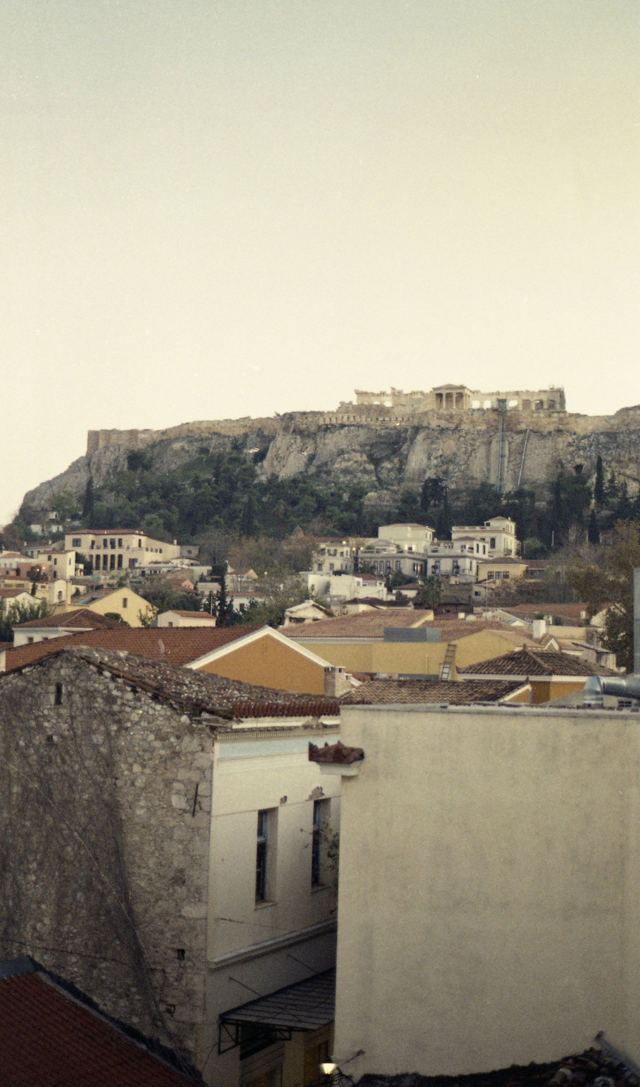
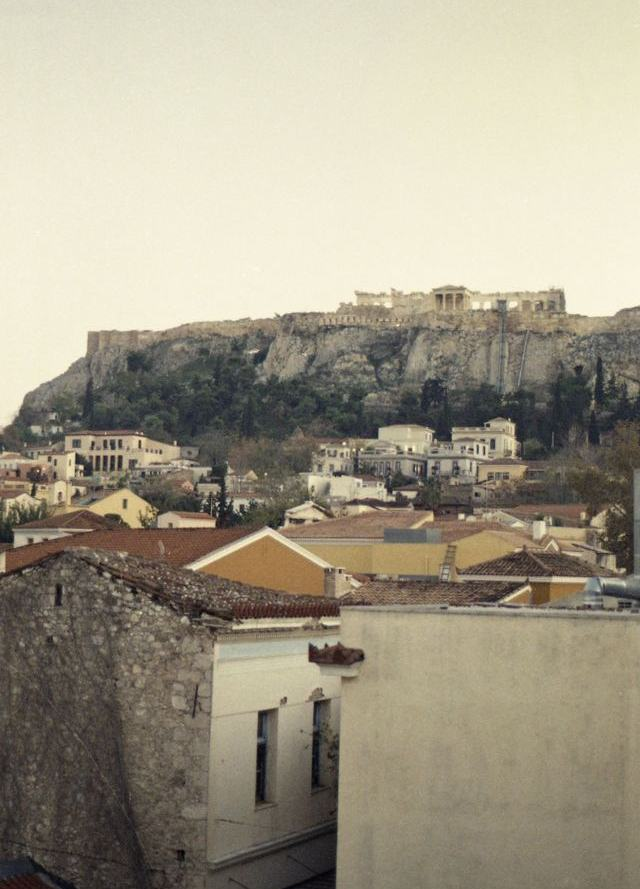
Görseller: takım/Noel sayfası başlıklarına srcset (telefonda 640 px), dikey küçük görseller gösterilen orana kırpılıp yeniden sıkıştırıldı
Claude-Session: https://claude.ai/code/session_017XwPavgqTCjUZUjWv2MXUk

diff --git a/sehir/noel/index.html b/sehir/noel/index.html
@@ -258,7 +258,7 @@ footer a { display: inline-flex; align-items: center; min-height: 44px; margin-r
   
   <section id="nurnberg" class="mac">
     <div class="banner">
-      <img src="/img/sehir/nurnberg-noel.jpg" alt="Nürnberg eski şehir ve St. Sebald kilisesi" loading="eager" decoding="async">
+      <img src="/img/sehir/nurnberg-noel.jpg" srcset="/img/sehir/nurnberg-noel-640.jpg 640w, /img/sehir/nurnberg-noel.jpg 1600w" sizes="(max-width: 760px) 100vw, 760px" alt="Nürnberg eski şehir ve St. Sebald kilisesi" loading="eager" decoding="async">
       <div class="bn">
         <span class="eb">4–6 ARALIK · NÜRNBERG · 72 SAAT</span>
         <h2>Nürnberg: Christkindlesmarkt</h2>
@@ -313,7 +313,7 @@ footer a { display: inline-flex; align-items: center; min-height: 44px; margin-r
   </section>
   <section id="dresden" class="mac">
     <div class="banner">
-      <img src="/img/sehir/dresden-noel.jpg" alt="Dresden eski şehir, Frauenkirche&#39;ye uzanan sokak" loading="lazy" decoding="async">
+      <img src="/img/sehir/dresden-noel.jpg" srcset="/img/sehir/dresden-noel-640.jpg 640w, /img/sehir/dresden-noel.jpg 1600w" sizes="(max-width: 760px) 100vw, 760px" alt="Dresden eski şehir, Frauenkirche&#39;ye uzanan sokak" loading="lazy" decoding="async">
       <div class="bn">
         <span class="eb">4–6 ARALIK · DRESDEN · 72 SAAT</span>
         <h2>Dresden: Striezelmarkt</h2>
@@ -368,7 +368,7 @@ footer a { display: inline-flex; align-items: center; min-height: 44px; margin-r
   </section>
   <section id="salzburg" class="mac">
     <div class="banner">
-      <img src="/img/sehir/salzburg-noel.jpg" alt="Salzburg, Hohensalzburg Kalesi ve eski şehir" loading="lazy" decoding="async">
+      <img src="/img/sehir/salzburg-noel.jpg" srcset="/img/sehir/salzburg-noel-640.jpg 640w, /img/sehir/salzburg-noel.jpg 1600w" sizes="(max-width: 760px) 100vw, 760px" alt="Salzburg, Hohensalzburg Kalesi ve eski şehir" loading="lazy" decoding="async">
       <div class="bn">
         <span class="eb">4–6 ARALIK · SALZBURG · 72 SAAT</span>
         <h2>Salzburg: Christkindlmarkt</h2>
@@ -423,7 +423,7 @@ footer a { display: inline-flex; align-items: center; min-height: 44px; margin-r
   </section>
   <section id="gdansk" class="mac">
     <div class="banner">
-      <img src="/img/sehir/gdansk-noel.jpg" alt="Gdańsk eski şehir ve St. Mary Kilisesi, kuşbakışı" loading="lazy" decoding="async">
+      <img src="/img/sehir/gdansk-noel.jpg" srcset="/img/sehir/gdansk-noel-640.jpg 640w, /img/sehir/gdansk-noel.jpg 1600w" sizes="(max-width: 760px) 100vw, 760px" alt="Gdańsk eski şehir ve St. Mary Kilisesi, kuşbakışı" loading="lazy" decoding="async">
       <div class="bn">
         <span class="eb">4–6 ARALIK · GDAŃSK · 72 SAAT</span>
         <h2>Gdańsk: Noel pazarı</h2>
@@ -474,7 +474,7 @@ footer a { display: inline-flex; align-items: center; min-height: 44px; margin-r
   </section>
   <section id="munih" class="mac">
     <div class="banner">
-      <img src="/img/sehir/munih-noel.jpg" alt="Münih, Marienplatz&#39;taki Noel pazarı, gece" loading="lazy" decoding="async">
+      <img src="/img/sehir/munih-noel.jpg" srcset="/img/sehir/munih-noel-640.jpg 640w, /img/sehir/munih-noel.jpg 1600w" sizes="(max-width: 760px) 100vw, 760px" alt="Münih, Marienplatz&#39;taki Noel pazarı, gece" loading="lazy" decoding="async">
       <div class="bn">
         <span class="eb">18–20 ARALIK · MÜNİH · 72 SAAT</span>
         <h2>Münih: Christkindlmarkt</h2>
@@ -529,7 +529,7 @@ footer a { display: inline-flex; align-items: center; min-height: 44px; margin-r
   </section>
   <section id="strazburg" class="mac">
     <div class="banner">
-      <img src="/img/sehir/strazburg-noel.jpg" alt="Strazburg Katedrali ve eski şehir, gün batımı" loading="lazy" decoding="async">
+      <img src="/img/sehir/strazburg-noel.jpg" srcset="/img/sehir/strazburg-noel-640.jpg 640w, /img/sehir/strazburg-noel.jpg 1600w" sizes="(max-width: 760px) 100vw, 760px" alt="Strazburg Katedrali ve eski şehir, gün batımı" loading="lazy" decoding="async">
       <div class="bn">
         <span class="eb">18–20 ARALIK · STRAZBURG · 72 SAAT</span>
         <h2>Strazburg: Christkindelsmärik</h2>
@@ -584,7 +584,7 @@ footer a { display: inline-flex; align-items: center; min-height: 44px; margin-r
   </section>
   <section id="krakov" class="mac">
     <div class="banner">
-      <img src="/img/sehir/krakov-noel.jpg" alt="Krakov Ana Meydan ve Kumaş Hali, gün batımı" loading="lazy" decoding="async">
+      <img src="/img/sehir/krakov-noel.jpg" srcset="/img/sehir/krakov-noel-640.jpg 640w, /img/sehir/krakov-noel.jpg 1600w" sizes="(max-width: 760px) 100vw, 760px" alt="Krakov Ana Meydan ve Kumaş Hali, gün batımı" loading="lazy" decoding="async">
       <div class="bn">
         <span class="eb">25–27 ARALIK · KRAKOV · 72 SAAT</span>
         <h2>Krakov: Noel pazarı</h2>
@@ -639,7 +639,7 @@ footer a { display: inline-flex; align-items: center; min-height: 44px; margin-r
   </section>
   <section id="brugge" class="mac">
     <div class="banner">
-      <img src="/img/sehir/brugge-noel.jpg" alt="Brugge&#39;de kanal ve tuğla evler" loading="lazy" decoding="async">
+      <img src="/img/sehir/brugge-noel.jpg" srcset="/img/sehir/brugge-noel-640.jpg 640w, /img/sehir/brugge-noel.jpg 1600w" sizes="(max-width: 760px) 100vw, 760px" alt="Brugge&#39;de kanal ve tuğla evler" loading="lazy" decoding="async">
       <div class="bn">
         <span class="eb">25–27 ARALIK · BRUGGE · 72 SAAT</span>
         <h2>Brugge: Winter Glow</h2>

diff --git a/sehir/fenerbahce/index.html b/sehir/fenerbahce/index.html
@@ -228,7 +228,7 @@ footer a { display: inline-flex; align-items: center; min-height: 44px; margin-r
   
   <section id="londra" class="mac">
     <div class="banner">
-      <img src="/img/sehir/londra-1.jpg" alt="Londra, gece Big Ben" loading="eager" decoding="async">
+      <img src="/img/sehir/londra-1.jpg" srcset="/img/sehir/londra-1-640.jpg 640w, /img/sehir/londra-1.jpg 1600w" sizes="(max-width: 760px) 100vw, 760px" alt="Londra, gece Big Ben" loading="eager" decoding="async">
       <div class="bn">
         <span class="eb">5. HAFTA · LONDRA · 72 SAAT</span>
         <h2>Shakhtar Donetsk – Fenerbahçe</h2>
@@ -287,7 +287,7 @@ footer a { display: inline-flex; align-items: center; min-height: 44px; margin-r
   </section>
   <section id="linz" class="mac">
     <div class="banner">
-      <img src="/img/sehir/linz-1.jpg" alt="Linz, Tuna kıyısı" loading="lazy" decoding="async">
+      <img src="/img/sehir/linz-1.jpg" srcset="/img/sehir/linz-1-640.jpg 640w, /img/sehir/linz-1.jpg 1600w" sizes="(max-width: 760px) 100vw, 760px" alt="Linz, Tuna kıyısı" loading="lazy" decoding="async">
       <div class="bn">
         <span class="eb">6. HAFTA · LİNZ · 72 SAAT</span>
         <h2>LASK – Fenerbahçe</h2>
@@ -346,7 +346,7 @@ footer a { display: inline-flex; align-items: center; min-height: 44px; margin-r
   </section>
   <section id="madrid" class="mac">
     <div class="banner">
-      <img src="/img/sehir/madrid-1.jpg" alt="Madrid" loading="lazy" decoding="async">
+      <img src="/img/sehir/madrid-1.jpg" srcset="/img/sehir/madrid-1-640.jpg 640w, /img/sehir/madrid-1.jpg 1600w" sizes="(max-width: 760px) 100vw, 760px" alt="Madrid" loading="lazy" decoding="async">
       <div class="bn">
         <span class="eb">8. HAFTA · MADRİD · 72 SAAT</span>
         <h2>Atlético Madrid – Fenerbahçe</h2>

diff --git a/sehir/besiktas/index.html b/sehir/besiktas/index.html
@@ -222,7 +222,7 @@ footer a { display: inline-flex; align-items: center; min-height: 44px; margin-r
   
   <section id="leverkusen" class="mac">
     <div class="banner">
-      <img src="/img/sehir/koln-1.jpg" alt="Köln Katedrali ve Hohenzollern Köprüsü, Ren kıyısı" loading="eager" decoding="async">
+      <img src="/img/sehir/koln-1.jpg" srcset="/img/sehir/koln-1-640.jpg 640w, /img/sehir/koln-1.jpg 1600w" sizes="(max-width: 760px) 100vw, 760px" alt="Köln Katedrali ve Hohenzollern Köprüsü, Ren kıyısı" loading="eager" decoding="async">
       <div class="bn">
         <span class="eb">6. HAFTA · KÖLN · 72 SAAT</span>
         <h2>Bayer Leverkusen – Beşiktaş</h2>
@@ -281,7 +281,7 @@ footer a { display: inline-flex; align-items: center; min-height: 44px; margin-r
   </section>
   <section id="lefkosa" class="mac">
     <div class="banner">
-      <img src="/img/sehir/lefkosa-1.jpg" alt="Lefkoşa eski şehirde bir sokak" loading="lazy" decoding="async">
+      <img src="/img/sehir/lefkosa-1.jpg" srcset="/img/sehir/lefkosa-1-640.jpg 640w, /img/sehir/lefkosa-1.jpg 1600w" sizes="(max-width: 760px) 100vw, 760px" alt="Lefkoşa eski şehirde bir sokak" loading="lazy" decoding="async">
       <div class="bn">
         <span class="eb">8. HAFTA · LEFKOŞA · 72 SAAT</span>
         <h2>Omonia – Beşiktaş</h2>

diff --git a/sehir/galatasaray/index.html b/sehir/galatasaray/index.html
@@ -222,7 +222,7 @@ footer a { display: inline-flex; align-items: center; min-height: 44px; margin-r
   
   <section id="atina" class="mac">
     <div class="banner">
-      <img src="/img/sehir/atina-2.jpg" alt="Atina, Akropolis&#39;teki Parthenon" loading="eager" decoding="async">
+      <img src="/img/sehir/atina-2.jpg" srcset="/img/sehir/atina-2-640.jpg 640w, /img/sehir/atina-2.jpg 1600w" sizes="(max-width: 760px) 100vw, 760px" alt="Atina, Akropolis&#39;teki Parthenon" loading="eager" decoding="async">
       <div class="bn">
         <span class="eb">6. HAFTA · ATİNA · 72 SAAT</span>
         <h2>AEK – Galatasaray</h2>
@@ -281,7 +281,7 @@ footer a { display: inline-flex; align-items: center; min-height: 44px; margin-r
   </section>
   <section id="paris" class="mac">
     <div class="banner">
-      <img src="/img/sehir/paris-1.jpg" alt="Paris, Sen nehri üzerinde gün batımı" loading="lazy" decoding="async">
+      <img src="/img/sehir/paris-1.jpg" srcset="/img/sehir/paris-1-640.jpg 640w, /img/sehir/paris-1.jpg 1600w" sizes="(max-width: 760px) 100vw, 760px" alt="Paris, Sen nehri üzerinde gün batımı" loading="lazy" decoding="async">
       <div class="bn">
         <span class="eb">8. HAFTA · PARİS · 72 SAAT</span>
         <h2>PSG – Galatasaray</h2>
